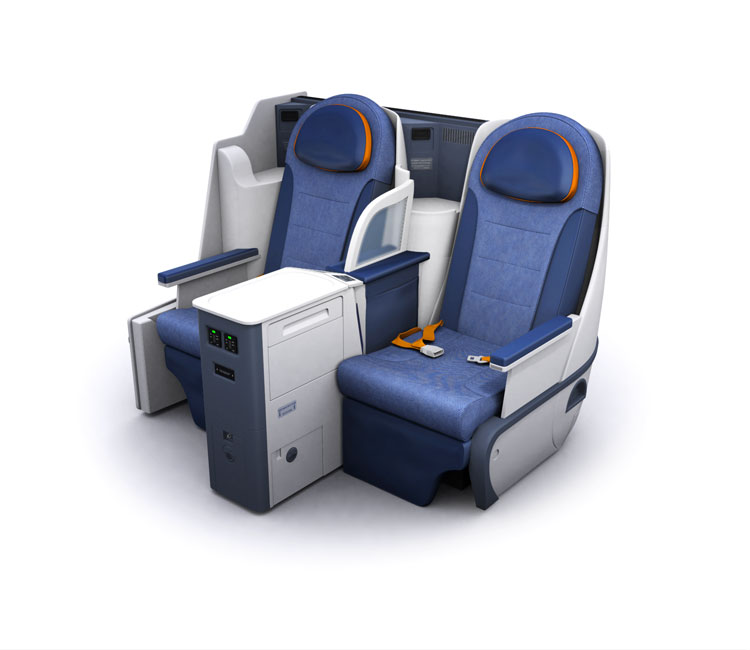
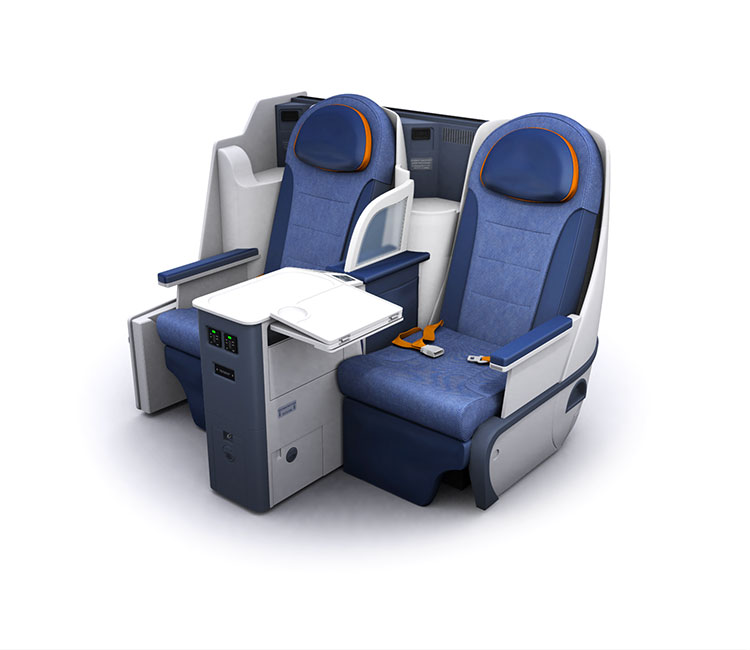
Comfort animate - remove one frame from table stage

Changed region(s): [[0.3373, 0.4308, 0.552, 0.6462], [0.552, 0.5231, 0.5827, 0.5538]]

diff --git a/www/htdocs/js/jquery.3d.js b/www/htdocs/js/jquery.3d.js
@@ -683,7 +683,7 @@ $(function() {
       rotate: 198, // rotate frames 0 - 199,
       expand: 42, // expand frames 0 - 43
       light: 26, // light frames 0 25
-      table: 33 // table frames
+      table: 32 // table frames
     }
   });
 });
